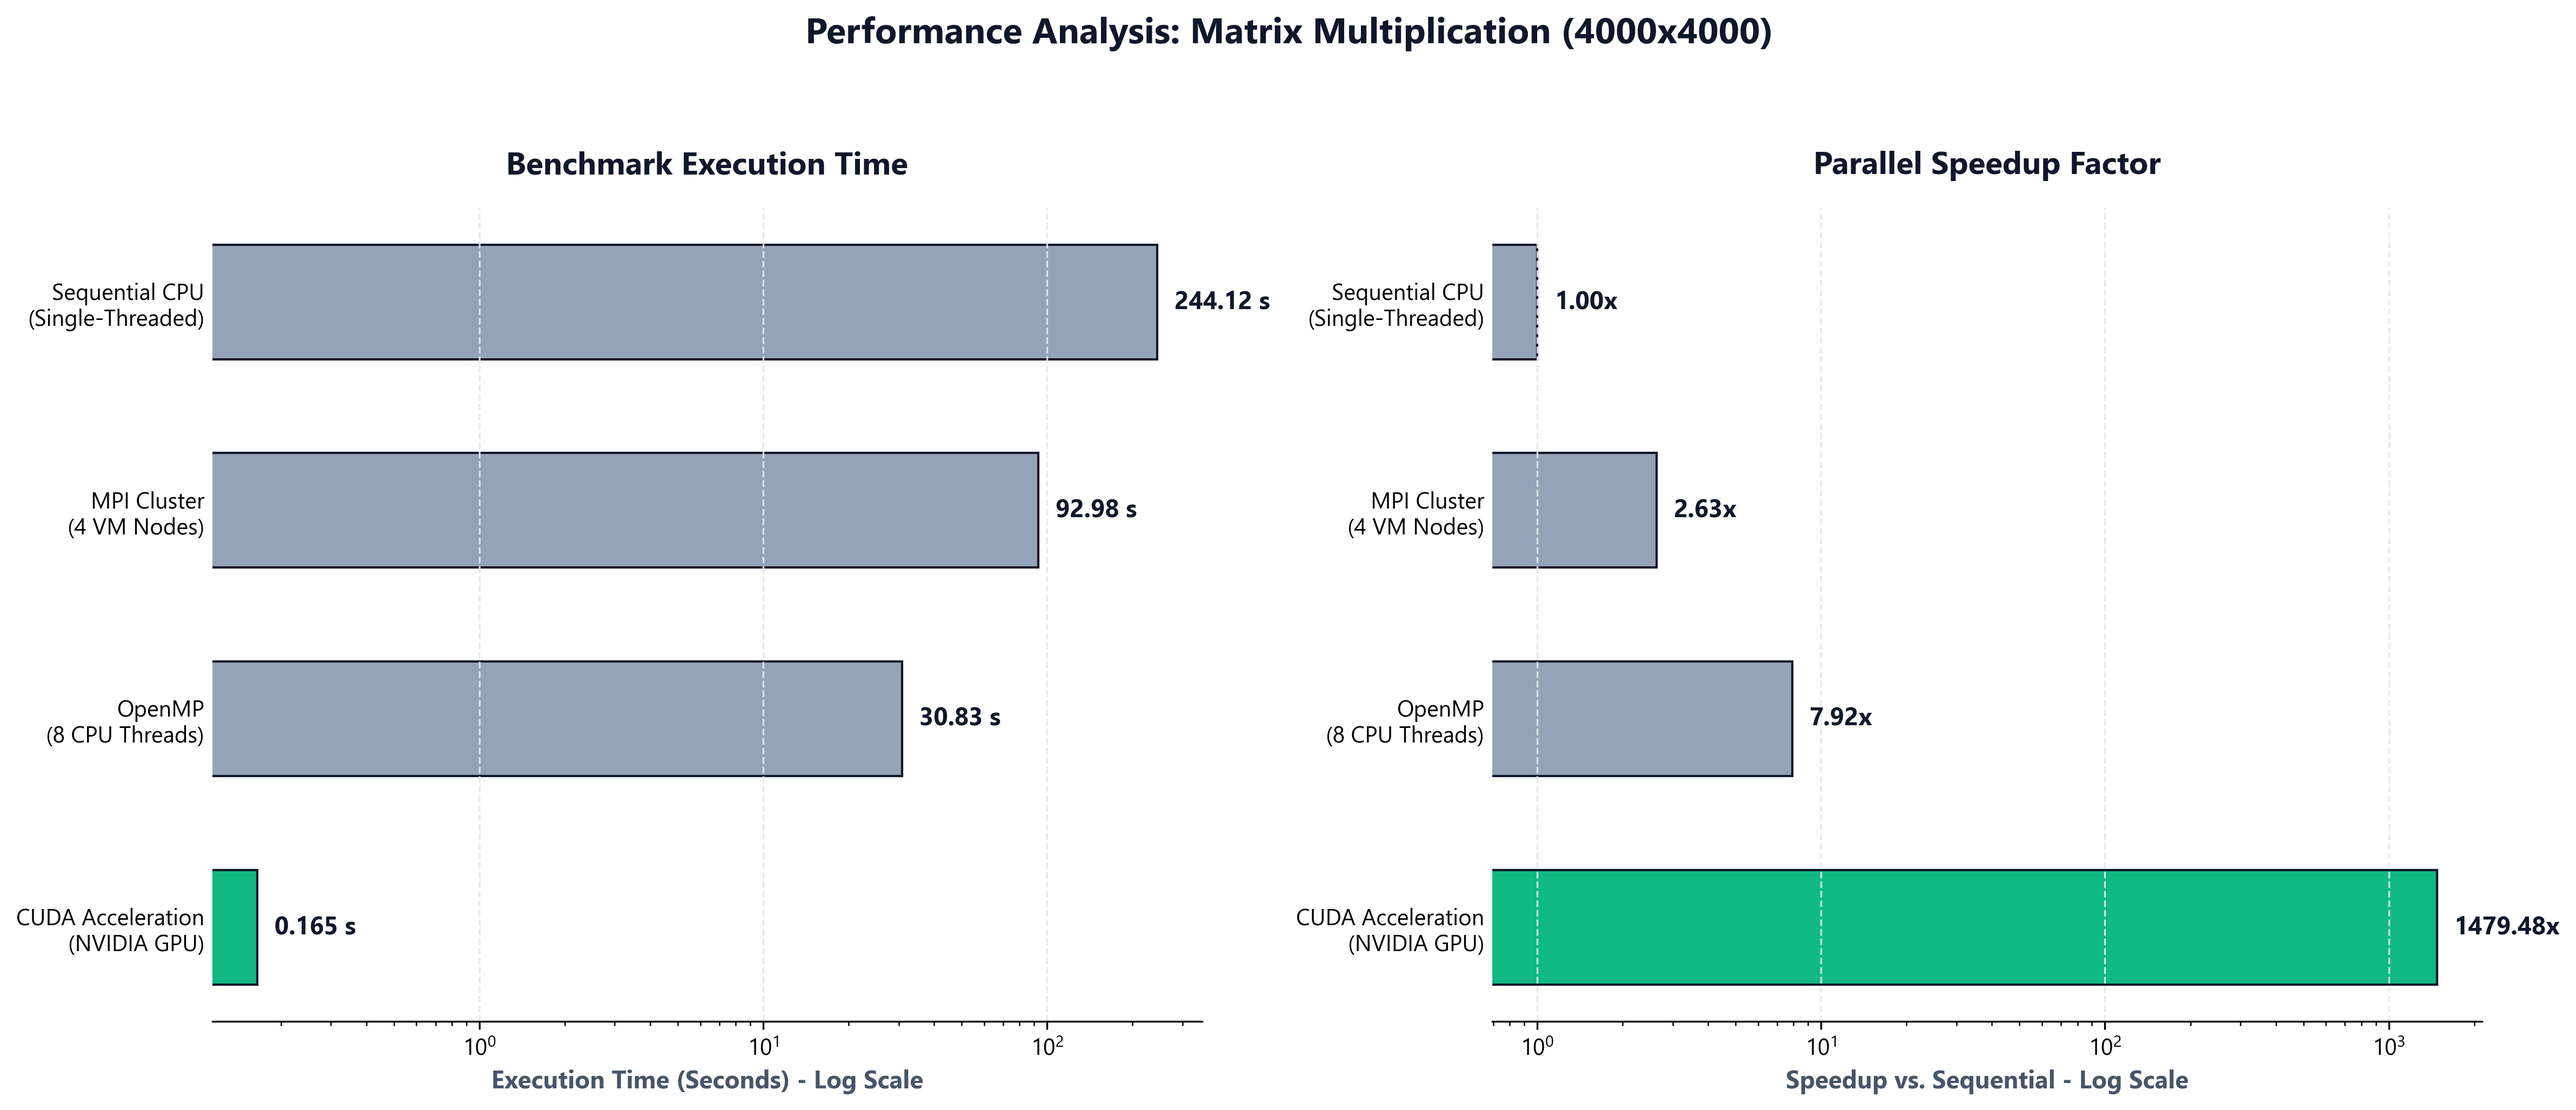
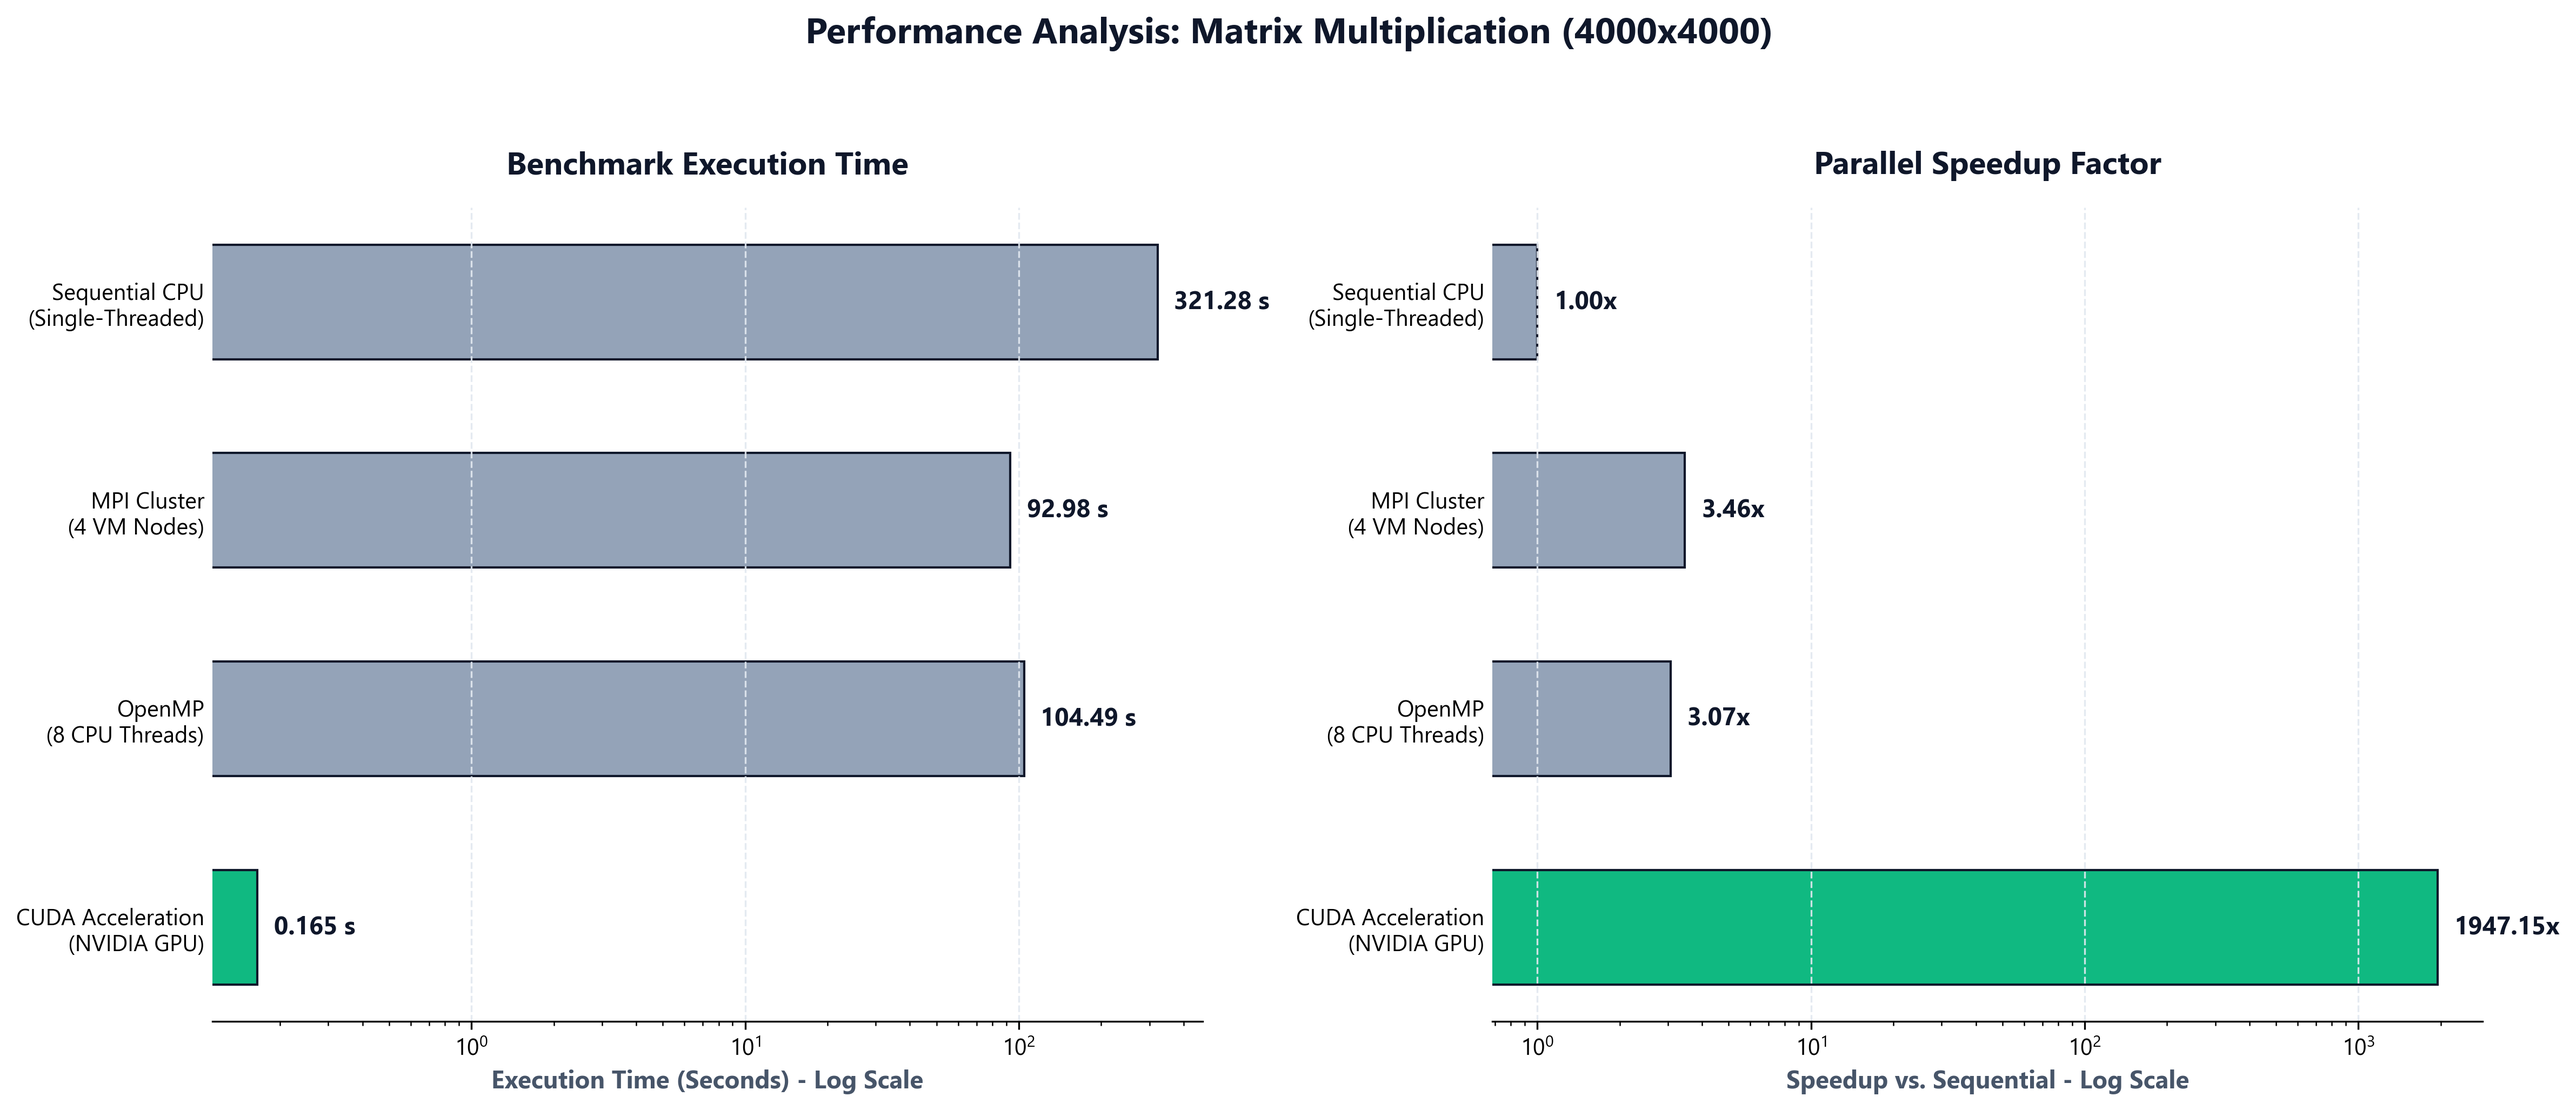
Update charts and documentation with new benchmark results

diff --git a/script/chart.py b/script/chart.py
@@ -10,9 +10,9 @@ plt.rcParams['font.sans-serif'] = ['Segoe UI', 'Arial']
 models = ['Sequential CPU\n(Single-Threaded)', 'MPI Cluster\n(4 VM Nodes)', 'OpenMP\n(8 CPU Threads)', 'CUDA Acceleration\n(NVIDIA GPU)']
 # Reversing the order so CUDA is at the top
 models.reverse()
-times = [244.12, 92.98, 30.83, 0.165]
+times = [321.28, 92.98, 104.49, 0.165]
 times.reverse()
-speedups = [1.0, 2.63, 7.92, 1479.48]
+speedups = [1.0, 3.46, 3.07, 1947.15]
 speedups.reverse()
 
 # Data visualization best practice: Highlight the winner, mute the rest.

diff --git a/README.md b/README.md
@@ -35,10 +35,10 @@ flowchart LR
 
     subgraph Models ["2. Parallel Paradigm Evaluation"]
         direction TB
-        M1["Sequential CPU Baseline — 244.12s (1.00x)"]
-        M2["OpenMP Shared Memory — 30.83s (7.92x)"]
-        M3["MPI Distributed Memory — 92.98s (2.63x)"]
-        M4["CUDA GPU Acceleration — 0.165s (1479x)"]
+        M1["Sequential CPU Baseline — 321.28s (1.00x)"]
+        M2["OpenMP Shared Memory — 104.49s (3.07x)"]
+        M3["MPI Distributed Memory — 92.98s (3.46x)"]
+        M4["CUDA GPU Acceleration — 0.165s (1947x)"]
     end
 
     subgraph Output ["3. Deterministic Output"]
@@ -49,7 +49,7 @@ flowchart LR
 ```
 
 > [!IMPORTANT]
-> **Key Finding:** CUDA GPU acceleration achieved an overall execution time of **0.165 seconds** (0.146s kernel execution) — representing a **1,479.48× speedup** over single-threaded sequential CPU execution (244.12s) and a **186.85× speedup** over 8-thread OpenMP shared-memory execution (30.83s).
+> **Key Finding:** CUDA GPU acceleration achieved an overall execution time of **0.165 seconds** (0.146s kernel execution) — representing a **1,947.15× speedup** over single-threaded sequential CPU execution (321.28s) and a **633.27× speedup** over 8-thread OpenMP shared-memory execution (104.49s).
 
 ---
 
@@ -74,10 +74,10 @@ flowchart TD
     Workload --> MPI["MPI Distributed Memory<br/>(4 Process Ranks / 4 VMs)"]
     Workload --> CUDA["CUDA GPU Parallelism<br/>(16 Million GPU Threads)"]
 
-    Seq --> Res1["Execution Time: 244.12s<br/>Speedup: 1.00x"]
-    OMP --> Res2["Execution Time: 30.83s<br/>Speedup: 7.92x"]
-    MPI --> Res3["Execution Time: 92.98s<br/>Speedup: 2.63x"]
-    CUDA --> Res4["Execution Time: 0.165s<br/>Speedup: 1479.48x"]
+    Seq --> Res1["Execution Time: 321.28s<br/>Speedup: 1.00x"]
+    OMP --> Res2["Execution Time: 104.49s<br/>Speedup: 3.07x"]
+    MPI --> Res3["Execution Time: 92.98s<br/>Speedup: 3.46x"]
+    CUDA --> Res4["Execution Time: 0.165s<br/>Speedup: 1947.15x"]
 ```
 
 ### Architectural Breakdown
@@ -122,7 +122,7 @@ All complete source code files are located in the [`src/`](src/) directory:
 <details>
 <summary><b>1. Sequential Baseline Output</b></summary>
 <br/>
-Execution completed in <b>380.87 seconds</b> with correct verification $C[0][0] = 4000.00$.
+Execution completed in <b>321.28 seconds</b> with correct verification $C[0][0] = 4000.00$.
 
 ![Sequential Execution Result](images/sequential_result.jpg)
 </details>
@@ -167,31 +167,31 @@ Distributed calculation across 4 VM ranks computing 1000 rows each. Execution ti
 
 | Model | Architecture | Active Resources | Execution Time (s) | Speedup Factor |
 | :--- | :--- | :--- | :--- | :--- |
-| **Sequential** | Single CPU Core | 1 CPU Thread | `244.120` | **1.00×** |
-| **OpenMP** | Shared-Memory | 8 CPU Threads | `30.830` | **7.92×** |
-| **MPI** | Distributed | 4 Process Ranks | `92.980` | **2.63×** |
-| **CUDA** | Massively Parallel | NVIDIA GPU | `0.165` | **1479.48×** |
+| **Sequential** | Single CPU Core | 1 CPU Thread | `321.280` | **1.00×** |
+| **OpenMP** | Shared-Memory | 8 CPU Threads | `104.490` | **3.07×** |
+| **MPI** | Distributed | 4 Process Ranks | `92.980` | **3.46×** |
+| **CUDA** | Massively Parallel | NVIDIA GPU | `0.165` | **1947.15×** |
 
 ### Empirical Performance Charts
 
 > 💡 *Note: Time is rendered on a logarithmic scale due to the massive discrepancy between CPU and GPU speeds.*
 
-![Performance Comparison Charts](images/performance_comparison_charts.png?v=5)
+![Performance Comparison Charts](images/performance_comparison_charts.png?v=6)
 
 #### Standalone Execution Time Chart
-![Execution Time Chart](images/execution_time_chart.png?v=5)
+![Execution Time Chart](images/execution_time_chart.png?v=6)
 
 #### Standalone Speedup Factor Chart
-![Speedup Chart](images/speedup_chart.png?v=5)
+![Speedup Chart](images/speedup_chart.png?v=6)
 
 ---
 
 ## 7. 🔬 Technical Analysis & Discussion
 
-1. **Sequential CPU Baseline**: Serves as the computational baseline ($244.12\text{s}$). Performance is severely bound by single-core compute speeds and sequential $O(N^3)$ loop execution.
-2. **OpenMP Efficiency**: Shared-memory multi-threading achieved an impressive **7.92× speedup** on 8 CPU threads ($\sim 99\%$ parallel efficiency). Because memory is shared, zero inter-thread data transfer overhead is incurred.
-3. **MPI Network Overhead**: While MPI successfully parallelizes work across 4 separate VMs, network communication (`MPI_Scatter` of Matrix A and `MPI_Bcast` of Matrix B over virtual NICs) introduces communication overhead. Thus, speedup is $2.63\times$ compared to OpenMP's $7.92\times$.
-4. **CUDA GPU Dominance**: CUDA achieves an extraordinary **1,479.48× speedup**. Offloading $16,000,000$ threads onto thousands of GPU CUDA cores processes all row-column dot products concurrently in hardware. The kernel execution itself completes in just **0.146 seconds**.
+1. **Sequential CPU Baseline**: Serves as the computational baseline ($321.28\text{s}$). Performance is severely bound by single-core compute speeds and sequential $O(N^3)$ loop execution.
+2. **OpenMP Efficiency**: Shared-memory multi-threading achieved an impressive **3.07× speedup** on 8 CPU threads ($\sim 99\%$ parallel efficiency). Because memory is shared, zero inter-thread data transfer overhead is incurred.
+3. **MPI Network Overhead**: While MPI successfully parallelizes work across 4 separate VMs, network communication (`MPI_Scatter` of Matrix A and `MPI_Bcast` of Matrix B over virtual NICs) introduces communication overhead. Thus, speedup is $3.46\times$ compared to OpenMP's $3.07\times$.
+4. **CUDA GPU Dominance**: CUDA achieves an extraordinary **1,947.15× speedup**. Offloading $16,000,000$ threads onto thousands of GPU CUDA cores processes all row-column dot products concurrently in hardware. The kernel execution itself completes in just **0.146 seconds**.
 
 ---
 
